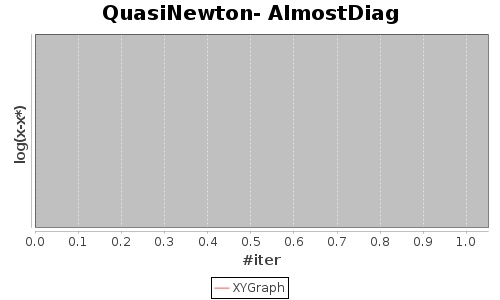
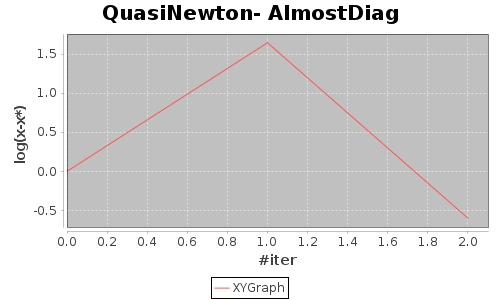
test

diff --git a/src/solve/QuasiNewton.java b/src/solve/QuasiNewton.java
@@ -30,6 +30,7 @@ public class QuasiNewton extends Algorithm {
 	}
 	@Override
 	protected void compute_next() throws EndOfIteration {
+		System.out.println("#######################################");
 		Vector Direction = new Vector(this.iter_vec.size());
 		Vector PosTemp 	= new Vector(this.iter_vec.size());
 		double alpha   	= 0.0;
@@ -44,7 +45,7 @@ public class QuasiNewton extends Algorithm {
 		Boolean GoodDirection = false;
 		Boolean AlrightThen = false;//Booleen pour l'adequation
 		Boolean GoGauchy = false;
-		
+
 		do {
 			GoGauchy 		= false;
 			GoodDirection 	= false;
@@ -53,7 +54,7 @@ public class QuasiNewton extends Algorithm {
 			alpha = this.s.search(this.iter_vec, Direction);
 			PosTemp = this.iter_vec.add(Direction.leftmul(alpha));
 			
-			if ( f.eval(PosTemp) <= f.eval(this.iter_vec) )
+			if ( f.eval(PosTemp) < f.eval(this.iter_vec) )
 			{
 				Rconf = this.iter_vec.sub(PosTemp).norm();				
 				if(Rconf > this.radius)
@@ -72,12 +73,25 @@ public class QuasiNewton extends Algorithm {
 			}
 			
 			if(GoGauchy){
+				
 				System.out.println("So we compute gauchy : ");
-				Vector GauchyDir = q.grad(this.iter_vec).leftmul(this.radius/q.grad(this.iter_vec).norm()).minus();
-				alpha = this.s.search(this.iter_vec, GauchyDir);
+				Vector TheOneWeShouldUse = q.grad(this.iter_vec);
+				Vector GauchyDir = TheOneWeShouldUse.leftmul(this.radius/TheOneWeShouldUse.norm()).minus();
+				//GAuchy dir based on f or QUadraForm q ?
+				if(this.A0.mult(TheOneWeShouldUse).scalar(TheOneWeShouldUse) <= 0) {
+					alpha=1;
+				}else {
+					alpha = Math.min(Math.pow(TheOneWeShouldUse.norm(), 3)/TheOneWeShouldUse.leftmul(this.radius).scalar(this.A0.mult(TheOneWeShouldUse)) , 1);
+				}
+				
+				
 				PosTemp = this.iter_vec.add(GauchyDir.leftmul(alpha));
 				GoodDirection = true;
 				/* Calcul intersection cercle de confiance et PosTemp de gauchy ? */
+				/* Verification si Gauchy diminue q ROSENBROCK NON DE DIEU*/ 
+				if (f.eval(PosTemp) >= f.eval(this.iter_vec)) {
+					System.out.println("Nop");
+				}
 			}
 			
 			
@@ -88,12 +102,14 @@ public class QuasiNewton extends Algorithm {
 				this.radius *= DELTA_RATIO;
 				this.iter_vec= PosTemp;
 				System.out.println("Good adequacy : "+Adequacy);
-				System.out.println("It is working !");
 			}else if (Adequacy < POOR_ADEQUACY)
 			{
 				System.out.println("Bad adequacy : "+Adequacy);
 				this.radius /= DELTA_RATIO;
 				AlrightThen = true;
+			}else {
+				this.iter_vec = PosTemp;
+				System.out.println("Average adequacy");
 			}
 		}while(AlrightThen && GoodDirection);
 		System.out.println("Iteration "+this.current_iteration());
@@ -105,7 +121,7 @@ public class QuasiNewton extends Algorithm {
 		/* Mise a jour des matricex SR1*/
 		/* DELTA COMPUTATION*/
 		Vector deltaX 		= this.iter_vec.sub(OldIter);
-		Vector deltaG 		= q.grad(this.iter_vec).sub(OldGrad);
+		Vector deltaG 		= f.grad(this.iter_vec).sub(OldGrad);
 		/* Error  */
 		Vector ErrorKA		= deltaG.sub(this.A0.mult(deltaX));
 		Vector ErrorKH		= deltaX.sub(this.H0.mult(deltaG));
@@ -119,16 +135,16 @@ public class QuasiNewton extends Algorithm {
 			this.A0	= this.A0.add(NEWA.leftmul((1/CurvatureA)));
 			Matrix NEWH = ErrorKH.MultEx(ErrorKH);
 			this.H0 = this.H0.add(NEWH.leftmul((1/CurvatureH)));
-			System.out.println("Mise a jour des matrices effectue\n");
+			System.out.println("Matrix updated\n");
 		}
 		
-		/*if(q.grad(this.iter_vec).norm() < GRADIENT_MIN_NORM || this.radius == DELTA_MIN) {
+		if(q.grad(this.iter_vec).norm() < GRADIENT_MIN_NORM || this.radius == DELTA_MIN) {
 			System.out.println("STOP CONDITION FULLFILLED :");
 			System.out.println("Grad val : "+f.grad(this.iter_vec).norm());
 			System.out.println("Radius "+this.radius + "\n");
 			throw new EndOfIteration();
 		}
-		**/
+		
 	}
 
 	/* *

diff --git a/src/main/Tp2.java b/src/main/Tp2.java
@@ -48,6 +48,8 @@ public class Tp2 {
 			algo.next();
 			gap[i-1] =  Math.log(f.eval(algo.current_vector())-EvalTop);
 		}while(algo.hasNext());
+		
+		System.out.println("Best value found : "+f.eval(algo.current_vector()));
 		/* Generate the graphic */
 		new Plot(plotTitle,"#iter","log(x-x*)",fileName,it,gap);
 	}
@@ -184,11 +186,11 @@ public class Tp2 {
 //		
 //		steepestRosenbrock();
 //		
-//		conjgradAlmostDiag();
+		conjgradAlmostDiag();
 //		
-//		conjgradHilbert();
+		conjgradHilbert();
 //		
-//		conjgradRosenbrock();
+		conjgradRosenbrock();
 		
 		newtonAlmostDiag();
 		newtonHilbert();
